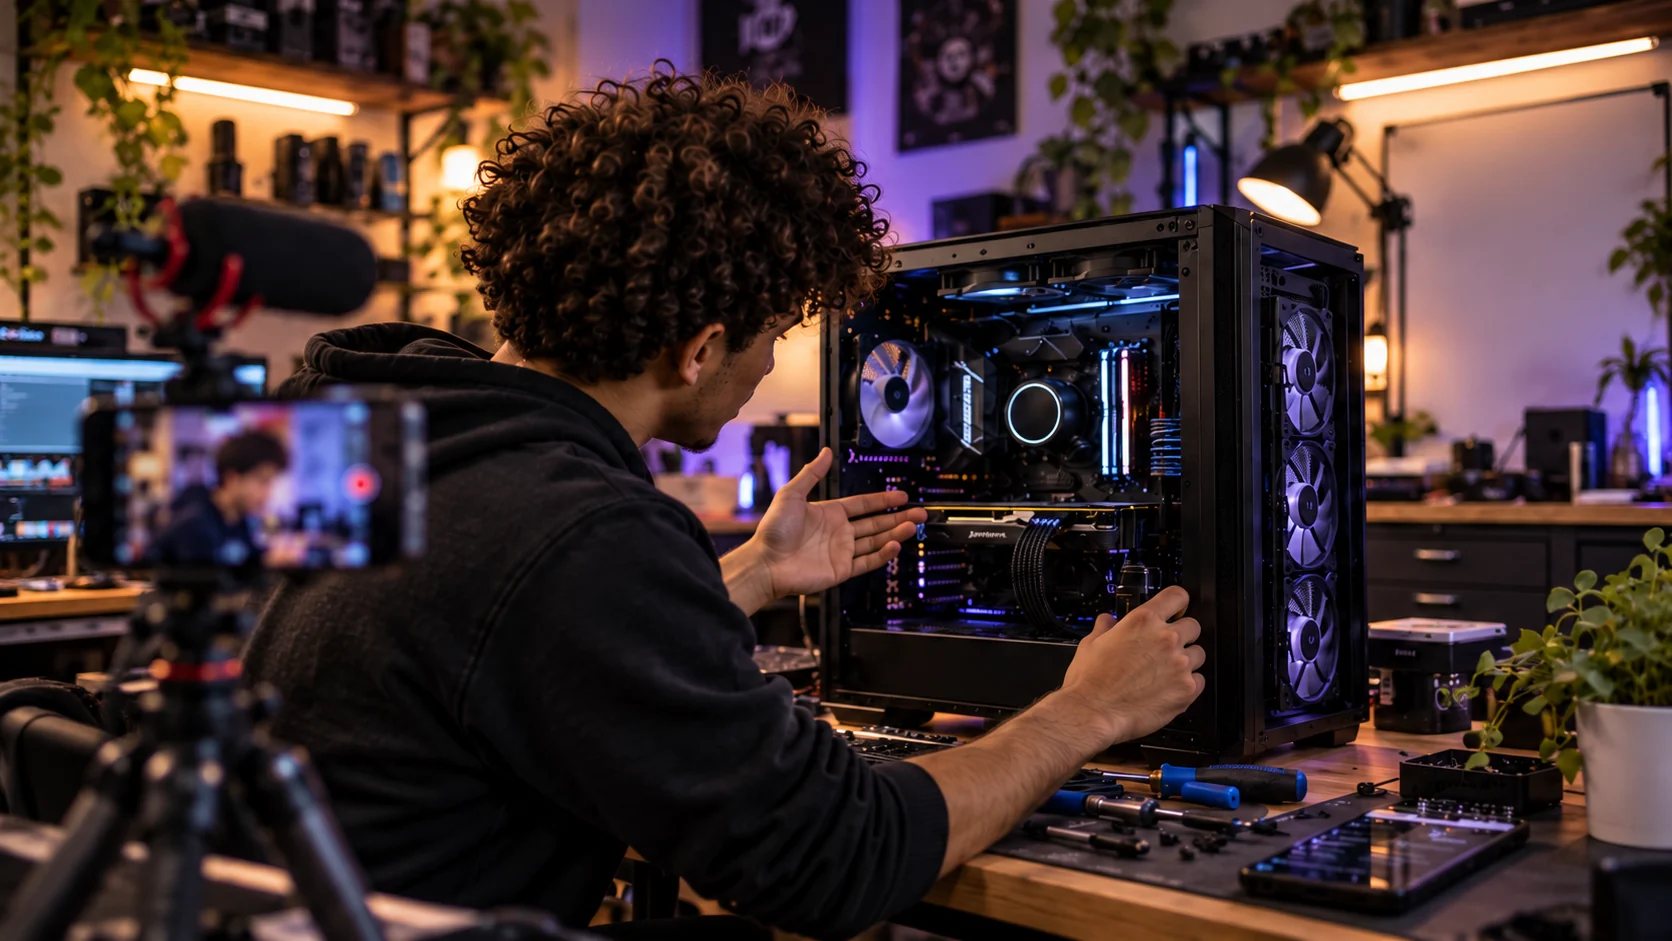
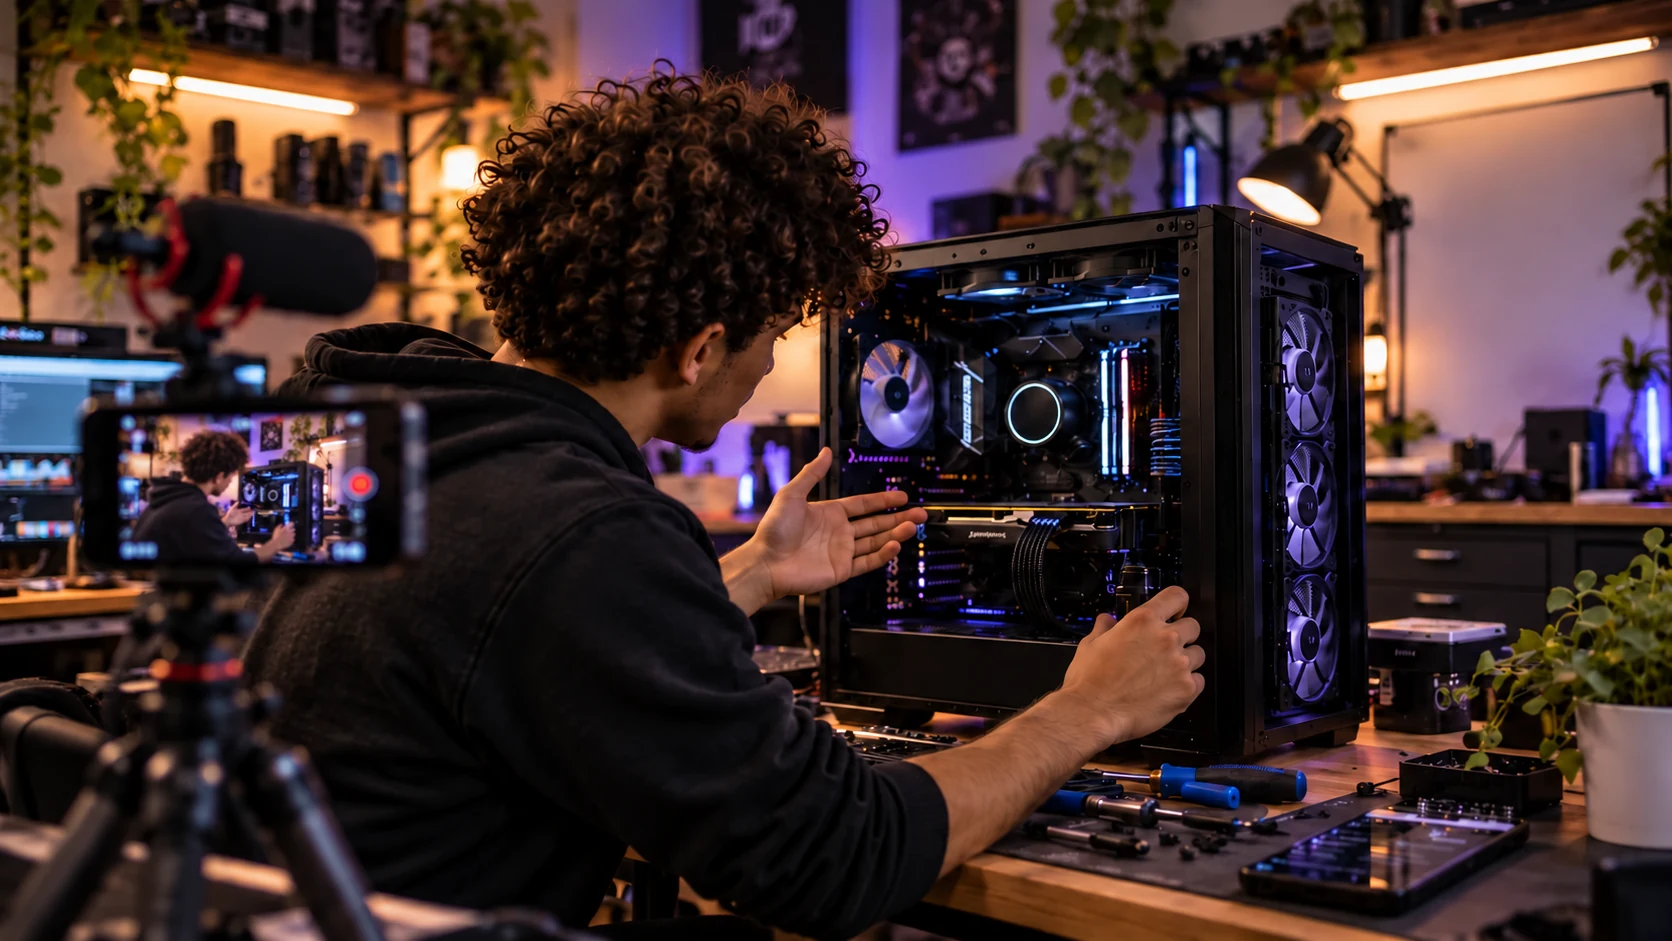
style: update hardware artwork and illustration caption

diff --git a/src/sections/hardware/Hardware.module.css b/src/sections/hardware/Hardware.module.css
@@ -149,6 +149,28 @@
   object-position: center;
 }
 
+.mediaDisclosure {
+  position: absolute;
+  inset-inline-start: 0.75rem;
+  inset-block-end: 0.75rem;
+  z-index: 1;
+  padding: 0.375rem 0.5rem;
+  border: 1px solid color-mix(
+    in srgb,
+    var(--color-text-primary) 18%,
+    transparent
+  );
+  border-radius: 999px;
+  background: color-mix(
+    in srgb,
+    var(--color-bg-base) 88%,
+    transparent
+  );
+  color: var(--color-text-muted);
+  font-size: 0.625rem;
+  line-height: 1.2;
+}
+
 /* ===== Beats — restrained internal chapter markers =====
    Hairline-separated, not cards: no per-item background, border-box, or
    shadow, matching the site's established borderless system. */

diff --git a/src/sections/hardware/Hardware.tsx b/src/sections/hardware/Hardware.tsx
@@ -143,7 +143,6 @@ function Hardware() {
             of Carter). The adjacent heading and copy carry the meaning. */}
         <figure
           className={styles.hardwareStage}
-          aria-hidden="true"
           data-reveal-stage
         >
           <img
@@ -151,6 +150,9 @@ function Hardware() {
             src={hardwareCreatorBuild}
             alt=""
           />
+          <figcaption className={styles.mediaDisclosure}>
+            {t.hardware.imageDisclosure}
+          </figcaption>
         </figure>
 
         <ul className={styles.beats}>
